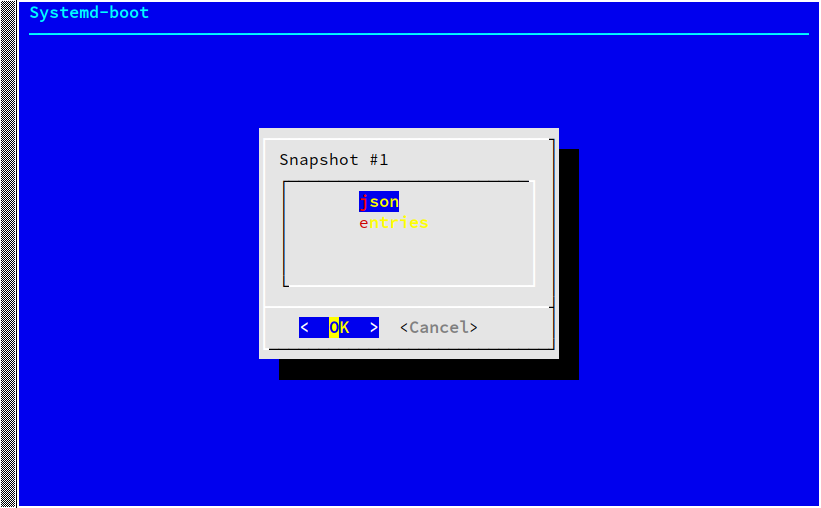
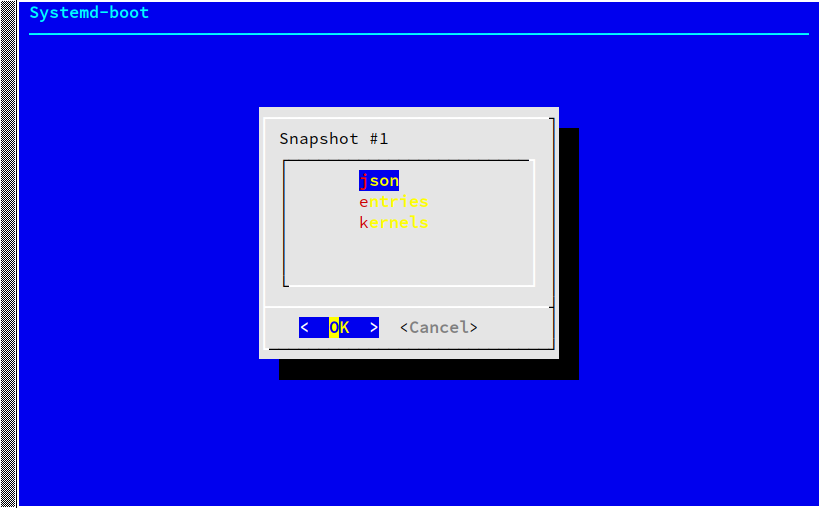
prettier kernel list

Changed region(s): [[0.3045, 0.2067, 0.7308, 0.4724]]

diff --git a/README.md b/README.md
@@ -9,3 +9,4 @@ in an attempt to manage the combinatorial mess.
 ![screenshot6.png](images/screenshot6.png)
 ![screenshot7.png](images/screenshot7.png)
 ![screenshot8.png](images/screenshot8.png)
+![screenshot9.png](images/screenshot9.png)
